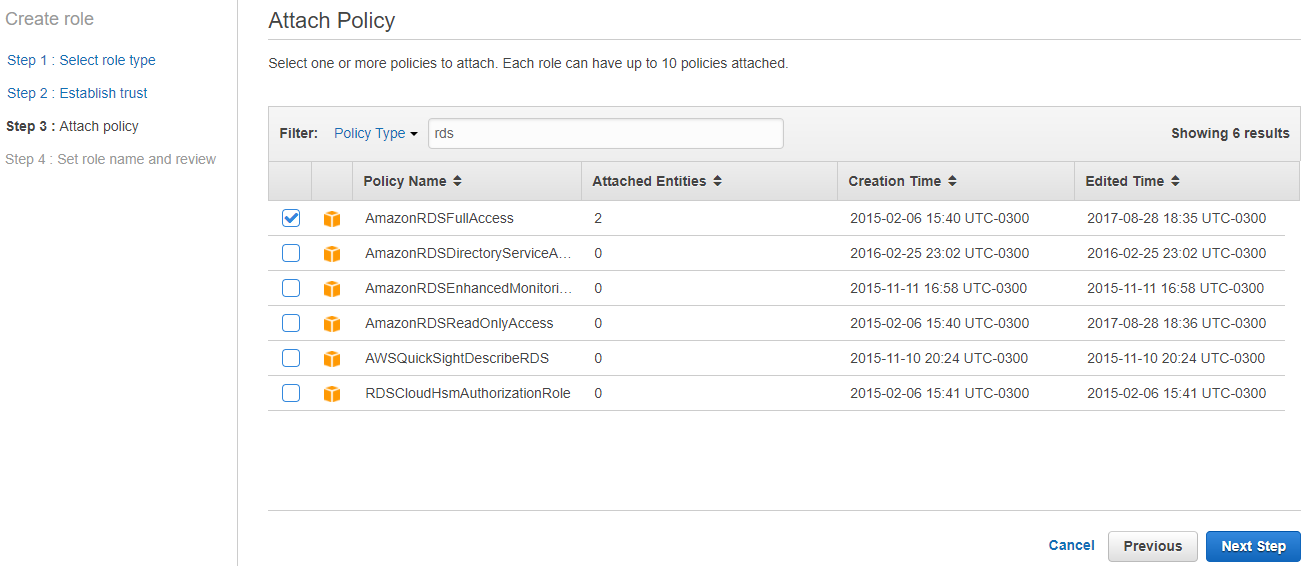
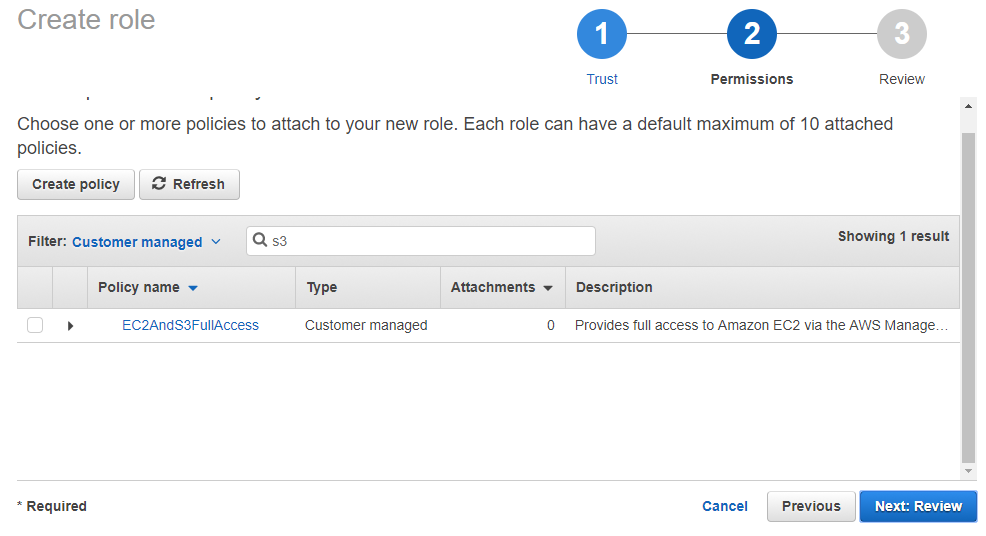
Avance IAM 28-9-2017

diff --git a/AWS Cloud/IAM/ejercicios/AWS_IAM_EjercicioFinal.md b/AWS Cloud/IAM/ejercicios/AWS_IAM_EjercicioFinal.md
@@ -1,9 +1,8 @@
-## Ejercicio extra
+## Ejercicio integrador
 
-El siguiente ejercicio tiene como objetivo poner en práctica lo visto en en el curso de IAM, otorgando una guía básica con las tareas a realizar y una ayuda para la utilización de los nombres.
+El siguiente ejercicio tiene como objetivo poner en práctica todos los conceptos de IAM de forma integral, otorgando una guía básica con las tareas a realizar.
 
 ---
-
 ### 1. Loguearse en la consola de AWS.
 ---
 
@@ -21,7 +20,11 @@ El siguiente ejercicio tiene como objetivo poner en práctica lo visto en en el 
 
 ---
 
-### 4. Crear una _customer managed policy_
+### 4. Agregar el usuario al grupo
+
+---
+
+### 5. Crear una _customer managed policy_
 
 - Name: _policy-lab_
 - Effect: _Allow_
@@ -31,14 +34,14 @@ El siguiente ejercicio tiene como objetivo poner en práctica lo visto en en el 
 
 ---
 
-### 5. Adjuntar una política a un usuario
+### 6. Adjuntar una política a un grupo
 
 - Política: AmazonEC2ReadOnlyAccess
-- Usuario: _marce_
+- Grupo: _devops_
 
 ---
 
-### 6. Crear IAM Role
+### 7. Crear IAM Role
 
 - Tipo de rol: _AWS Services Roles_ -> _Amazon EC2_
 - Política: _AmazonS3FullAccess_
@@ -46,14 +49,14 @@ El siguiente ejercicio tiene como objetivo poner en práctica lo visto en en el 
 
 ---
 
-### 7. Iniciar instancia EC2
+### 8. Iniciar instancia EC2
 
 - AMI: _Amazon Linux AMI_
 - Atachear la política: _lab-role_
 
 ---
 
-### 8. Conectarse a la instancia
+### 9. Conectarse a la instancia
 
 
 #### Conectarse usando Linux ssh
@@ -130,7 +133,10 @@ export AWS_SECRET_ACCESS_KEY=secret-key-of-user-created-before
 ```
 
 Now you can use the AWS CLI
-aws ec2 describe-instances --region us-west-2 to list instances in the Oregon region
+
+```bash
+aws ec2 describe-instances 
+```
 
 ```bash
 aws s3 ls

diff --git a/AWS Cloud/IAM/ejercicios/AWS_IAM_Roles.md b/AWS Cloud/IAM/ejercicios/AWS_IAM_Roles.md
@@ -16,7 +16,7 @@ Para crear un rol en AWS:
 
 ![IAM Role](../images/IAM_role9.PNG)
 
-* Seleccionar AmazonRDSFullAccess
+* Seleccionar la _custom managed policy_ creada anteriormente con permisos de EC2 y S3
 
 ![IAM Role](../images/IAM_role10.PNG)
 
